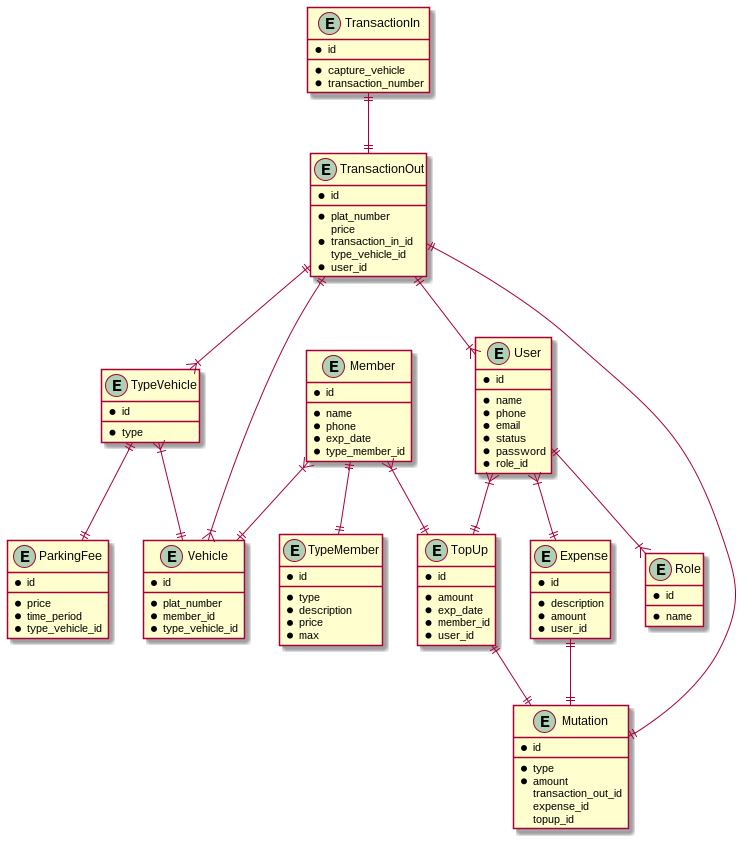
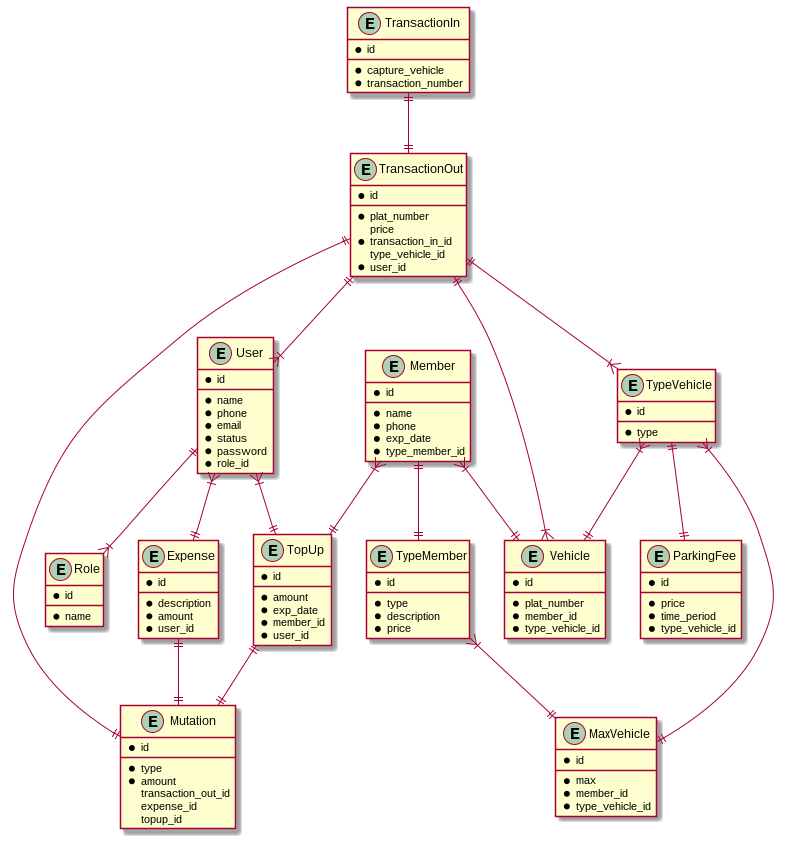
fix: migration

diff --git a/database/migrations/2022_04_28_111602_create_max_vehicles_table.php b/database/migrations/2022_04_28_111602_create_max_vehicles_table.php
@@ -13,12 +13,11 @@ return new class extends Migration
      */
     public function up()
     {
-        Schema::create('top_ups', function (Blueprint $table) {
+        Schema::create('max_vehicles', function (Blueprint $table) {
             $table->id();
-            $table->unsignedInteger('amount');
-            $table->dateTime('exp_date');
+            $table->unsignedInteger('max');
             $table->foreignId('member_id')->constrained();
-            $table->foreignId('user_id')->constrained();
+            $table->foreignId('type_vehicle_id')->constrained();
             $table->timestamps();
         });
     }
@@ -30,6 +29,6 @@ return new class extends Migration
      */
     public function down()
     {
-        Schema::dropIfExists('topups');
+        Schema::dropIfExists('max_vehicles');
     }
 };

diff --git a/database/migrations/2022_04_23_130216_create_mutations_table.php b/database/migrations/2022_04_23_130216_create_mutations_table.php
@@ -19,7 +19,7 @@ return new class extends Migration
             $table->unsignedInteger('amount');
             $table->foreignId('transaction_out')->nullable()->default(null)->constrained();
             $table->foreignId('expense_id')->nullable()->default(null)->constrained();
-            $table->foreignId('top_up_id')->nullable()->default(null)->constrained()->cascadeOnDelete();
+            $table->foreignId('top_up_id')->nullable()->default(null)->constrained();
             $table->timestamps();
         });
     }

diff --git a/database/migrations/2022_04_23_130215_create_vehicles_table.php b/database/migrations/2022_04_23_130215_create_vehicles_table.php
@@ -16,7 +16,7 @@ return new class extends Migration
         Schema::create('vehicles', function (Blueprint $table) {
             $table->id();
             $table->string('plat_number');
-            $table->foreignId('member_id')->constrained()->cascadeOnDelete();
+            $table->foreignId('member_id')->constrained();
             $table->foreignId('type_vehicle_id')->constrained();
             $table->timestamps();
         });

diff --git a/database/migrations/2022_04_23_122428_create_transaction_outs_table.php b/database/migrations/2022_04_23_122428_create_transaction_outs_table.php
@@ -16,6 +16,7 @@ return new class extends Migration
         Schema::create('transaction_outs', function (Blueprint $table) {
             $table->id();
             $table->string('plat_number');
+            $table->unsignedInteger('price');
             $table->foreignId('transaction_in_id')->constrained();
             $table->foreignId('type_vehicle_id')->constrained();
             $table->foreignId('user_id')->constrained();

diff --git a/app/Models/MaxVehicle.php b/app/Models/MaxVehicle.php
@@ -1,0 +1,17 @@
+<?php
+
+namespace App\Models;
+
+use Illuminate\Database\Eloquent\Factories\HasFactory;
+use Illuminate\Database\Eloquent\Model;
+
+class MaxVehicle extends Model
+{
+    use HasFactory;
+
+    protected $fillable = [
+        'max',
+        'member_id',
+        'type_vehicle_id',
+    ];
+}

diff --git a/database/migrations/2022_04_20_031727_create_type_members_table.php b/database/migrations/2022_04_20_031727_create_type_members_table.php
@@ -18,7 +18,6 @@ return new class extends Migration
             $table->string('type');
             $table->text('description');
             $table->unsignedInteger('price');
-            $table->unsignedInteger('max');
             $table->timestamps();
         });
     }

diff --git a/app/Models/TypeMember.php b/app/Models/TypeMember.php
@@ -16,7 +16,6 @@ class TypeMember extends Model
         'type',
         'description',
         'price',
-        'max',
     ];
 
     protected function updatedAt(): Attribute
